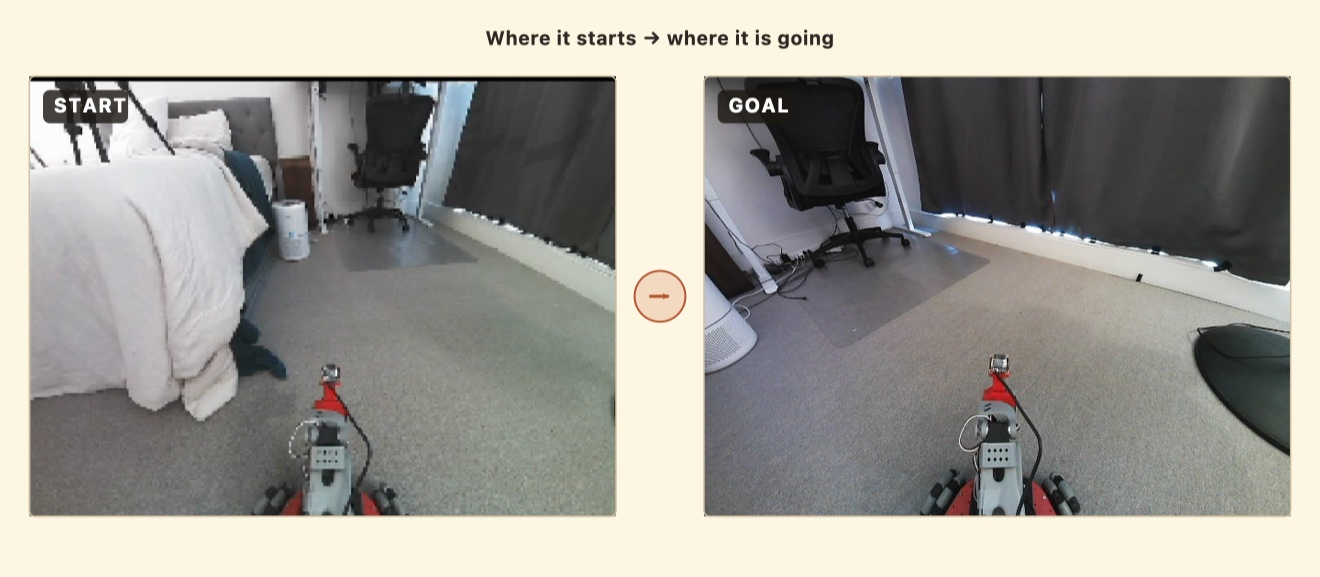
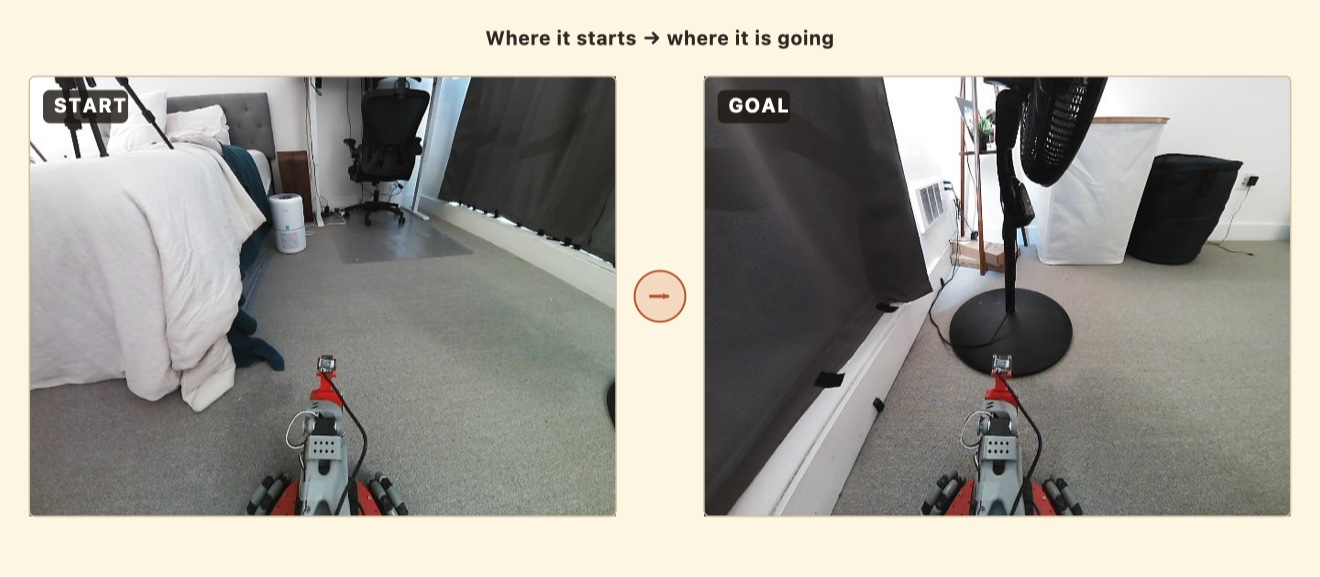
fix(site): correct fan-demo goal image, extracted from the .rrd recording
The second graph demo's goal was wrong (a distant view of the fan). Extracted
the actual goal the run targeted directly from mpc_semantic_graph_nearfan2.rrd
(the /goal ImageBuffer) plus the matching start frame (/live first frame), both
native 640x480, and rebuilt the start->goal graphic. The correct goal is the
robot right up against the standing fan.

diff --git a/docs/index.html b/docs/index.html
@@ -5,7 +5,7 @@
 <meta name="viewport" content="width=device-width, initial-scale=1">
 <title>NanoNAV — real-robot navigation with Nano World Models</title>
 <meta name="description" content="Latent-space planning with a Nano World Model drives a LeKiwi robot to goal images — learned from 25 minutes of driving, no maps, no depth, no pose.">
-<link rel="stylesheet" href="style.css?v=1782700187">
+<link rel="stylesheet" href="style.css?v=1782700932">
 <link rel="stylesheet" href="https://cdn.jsdelivr.net/npm/katex@0.16.9/dist/katex.min.css">
 <script type="module" src="https://ajax.googleapis.com/ajax/libs/model-viewer/4.0.0/model-viewer.min.js"></script>
 </head>
@@ -379,7 +379,7 @@
 <p>The second run reaches a fan across the room, again routing through the graph from a start with no overlap with the goal.</p>
 
 <figure>
-  <img src="assets/nearfan2_startgoal.jpg?v=6a06d4d8" alt="">
+  <img src="assets/nearfan2_startgoal.jpg?v=cff98d34" alt="">
   <figcaption><b>Start and goal for the fan run.</b> As before, the goal image was captured at the destination ahead of time.</figcaption>
 </figure>
 